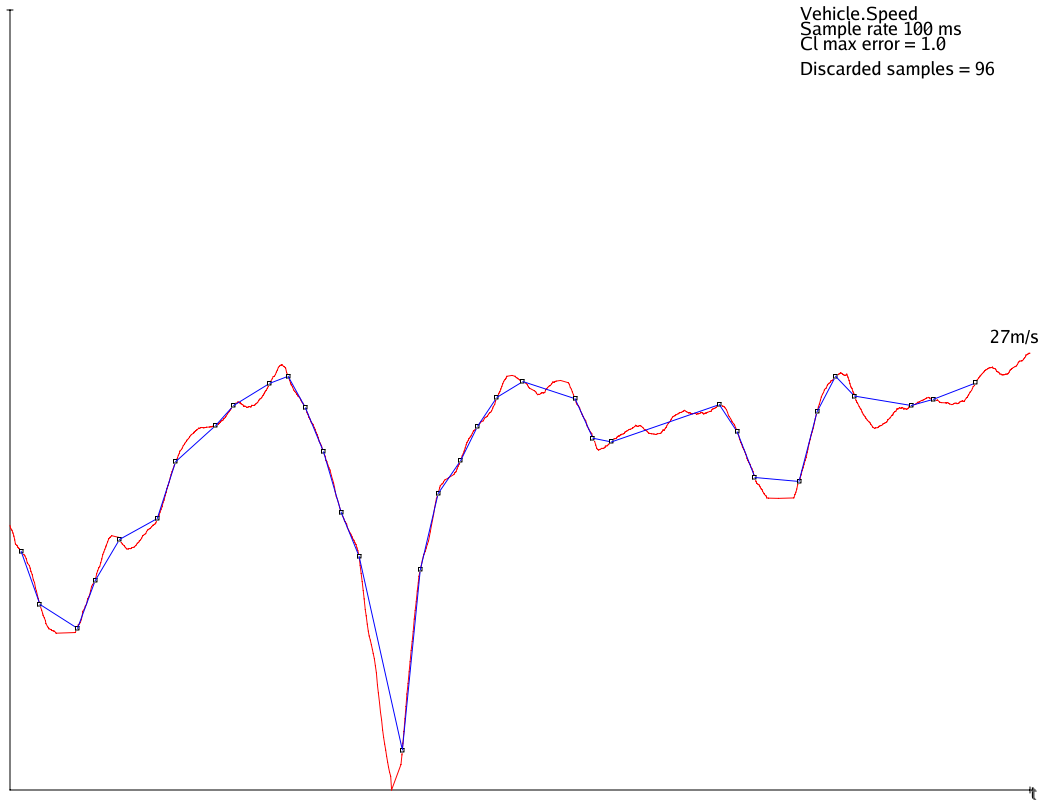
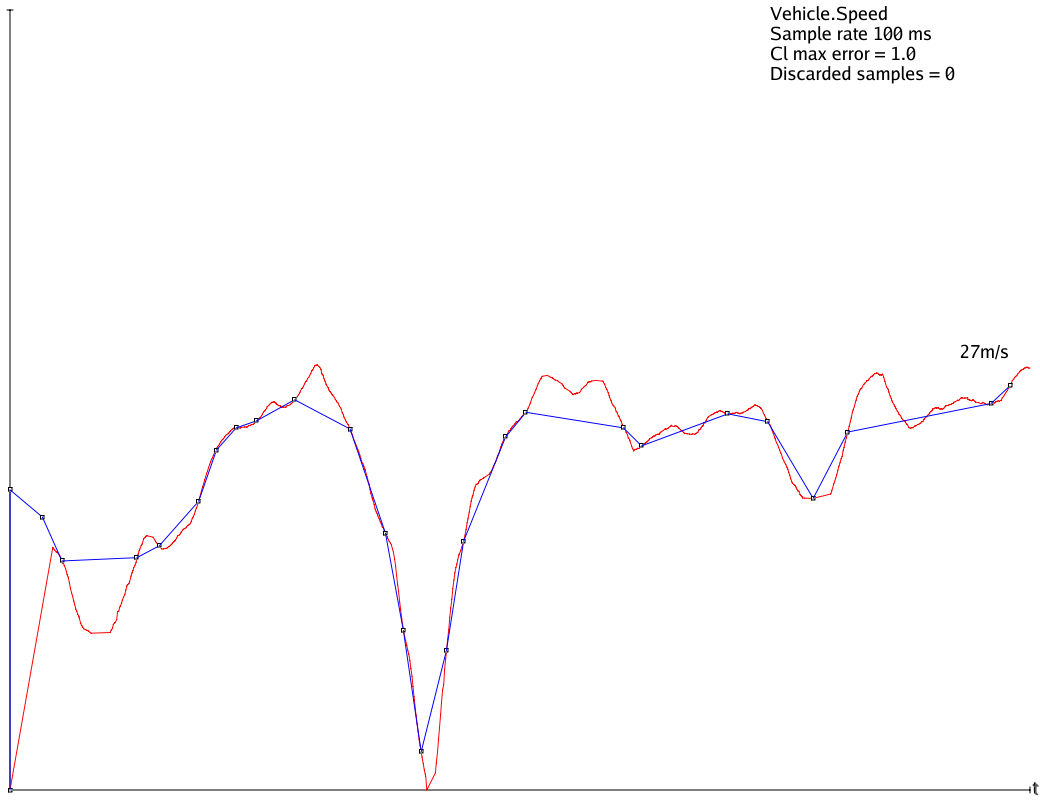
added sample counters

diff --git a/plotter.go b/plotter.go
@@ -44,7 +44,7 @@ func GetFontFace(size float64) font.Face {
 func _addLabel(dc *gg.Context, x, y float64, label string) {
 	face := GetFontFace(18)
 	dc.SetFontFace(face)
-	dc.DrawString(label, x-40, y)
+	dc.DrawString(label, x-70, y)
 	dc.Stroke()
 }
 
@@ -63,17 +63,16 @@ func _getXY(dp TimeSeriesDataPoint, width, height, woffset, hoffset, maxX, minX 
 	return x, y
 }
 
-func _drawGraphData(dc *gg.Context, currentsaveratio float64) {
+func _drawGraphData(dc *gg.Context) {
 
 	dc.SetColor(color.Black)
 	_addLabel(dc, 840, 20, JsonSettings.VssName)
 	sampleRateStr := fmt.Sprintf("Sample rate %s%s", JsonSettings.SubPeriod, " ms")
-	_addLabel(dc, 840, 35, sampleRateStr)
+	_addLabel(dc, 840, 40, sampleRateStr)
 	curveMaxError := fmt.Sprintf("Cl max error = %s", JsonSettings.CurveLogErr)
-	_addLabel(dc, 840, 50, curveMaxError)
-	currentsaveratio = currentsaveratio * 100
-	outStr := fmt.Sprintf("Discarded samples = %d", uint64(currentsaveratio))
-	_addLabel(dc, 840, 75, outStr)
+	_addLabel(dc, 840, 60, curveMaxError)
+	outStr := fmt.Sprintf("Discarded samples = %d", GetCountersInstance().Ratio())
+	_addLabel(dc, 840, 80, outStr)
 
 }
 
@@ -94,10 +93,10 @@ func getBackgroundImage(width, height, woffset, hoffset int) image.Image {
 		dc.Stroke()
 		face := GetFontFace(18)
 		dc.SetFontFace(face)
-		dc.DrawStringAnchored("t", float64(width-woffset)+3, float64(height-hoffset), 0.5, 0.5)
+		dc.DrawStringAnchored("t", float64(width-woffset)+5, float64(height-hoffset), 0.5, 0.2)
 		dc.Stroke()
 		dc.SetRGB255(96, 96, 96)
-		dc.DrawStringAnchored("t", float64(width-woffset)+4, float64(height-hoffset)+1, 0.5, 0.5)
+		dc.DrawStringAnchored("t", float64(width-woffset)+6, float64(height-hoffset)+1, 0.5, 0.2)
 		dc.Stroke()
 		backgroundImage = dc.Image()
 	}
@@ -124,6 +123,7 @@ func getcurvelogPickerDot() image.Image {
 }
 
 func DrawPNGgg(grpcvalue_1 chan string) {
+	counters := GetCountersInstance()
 	for {
 		width := 1040
 		height := 800
@@ -147,6 +147,7 @@ func DrawPNGgg(grpcvalue_1 chan string) {
 					oldy = y
 				}
 				dc.DrawLine(x, y, oldx, oldy)
+				counters.IncSampleCounter()
 				oldx = x
 				oldy = y
 				lastdp = &dp
@@ -172,16 +173,13 @@ func DrawPNGgg(grpcvalue_1 chan string) {
 				dc.DrawLine(x, y, oldx, oldy)
 				dc.Stroke()
 				dc.DrawImage(getcurvelogPickerDot(), int(x-2), int(y-2))
-
+				counters.IncDownSampleCounter()
 				oldx = x
 				oldy = y
 			}
 			dc.Stroke()
-			ratio := float64(len(timeSeriesDataBufferCLog.TSeries)) / float64(len(timeSeriesDataBufferNoCLog.TSeries))
-			fmt.Println("CURRENT SAVE RATIO = ", 1.0-ratio, "%")
 			cLogMutex.Unlock()
-
-			_drawGraphData(dc, 1.0-ratio)
+			_drawGraphData(dc)
 
 			dc.SavePNG("assets/image1.png")
 			time.Sleep(20 * time.Millisecond)

diff --git a/counter.go b/counter.go
@@ -1,0 +1,55 @@
+/******** Peter Winzell (c), 6/12/24 *********************************************/
+
+package main
+
+import (
+	"fmt"
+	"math"
+	"sync"
+)
+
+type Counter interface {
+	IncSampleCounter() int
+	IncDownSampleCounter() int
+	Ratio() int
+}
+type sampleCounters struct {
+	sample_counter     int
+	downsample_counter int
+}
+
+// increase sample_counter with 1
+func (counter sampleCounters) IncSampleCounter() int {
+	counter.sample_counter++
+	return counter.sample_counter
+}
+
+// increase downsample_cpunter with 1
+func (counter sampleCounters) IncDownSampleCounter() int {
+	counter.downsample_counter++
+	return counter.downsample_counter
+}
+
+// the percentage of samples not used
+func (counter sampleCounters) Ratio() int {
+	return int(math.Round(1.0 - float64(counter.downsample_counter)/float64(counter.sample_counter)*100))
+}
+
+var counterlock = &sync.Mutex{}
+var counters *sampleCounters
+
+// there can be only one counter of counters
+func GetCountersInstance() Counter {
+	if counters == nil {
+		counterlock.Lock()
+		defer counterlock.Unlock()
+		if counters == nil {
+			counters = &sampleCounters{}
+		} else {
+			fmt.Println("Single instance Counter already created.")
+		}
+	} else {
+		fmt.Println("Single instance Counter already created.")
+	}
+	return counters
+}
